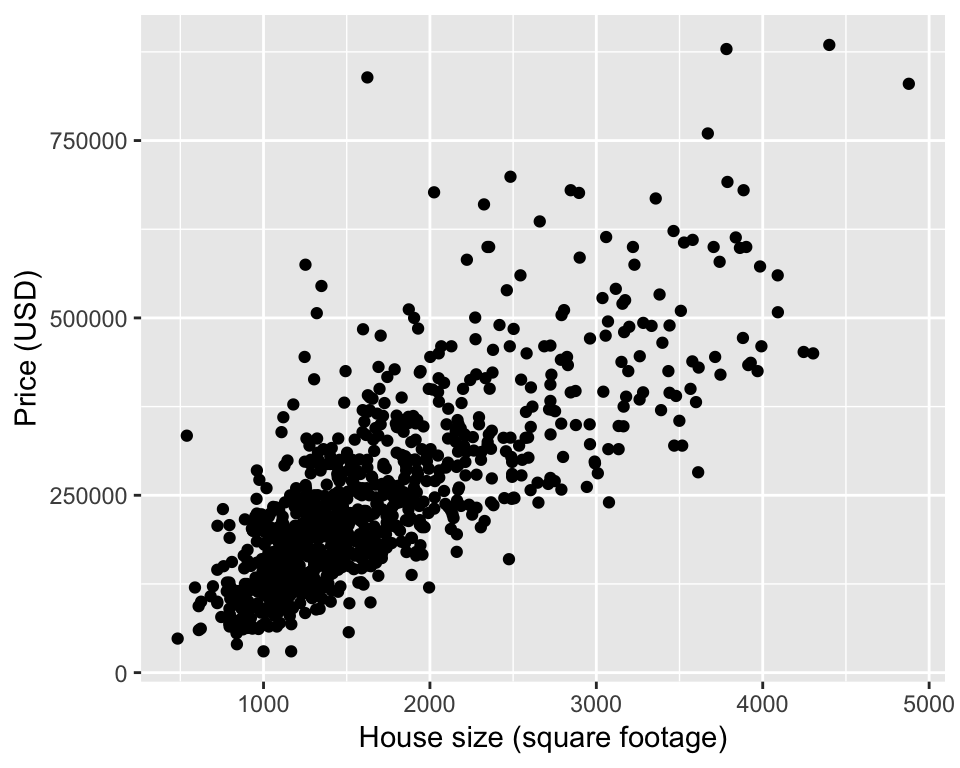
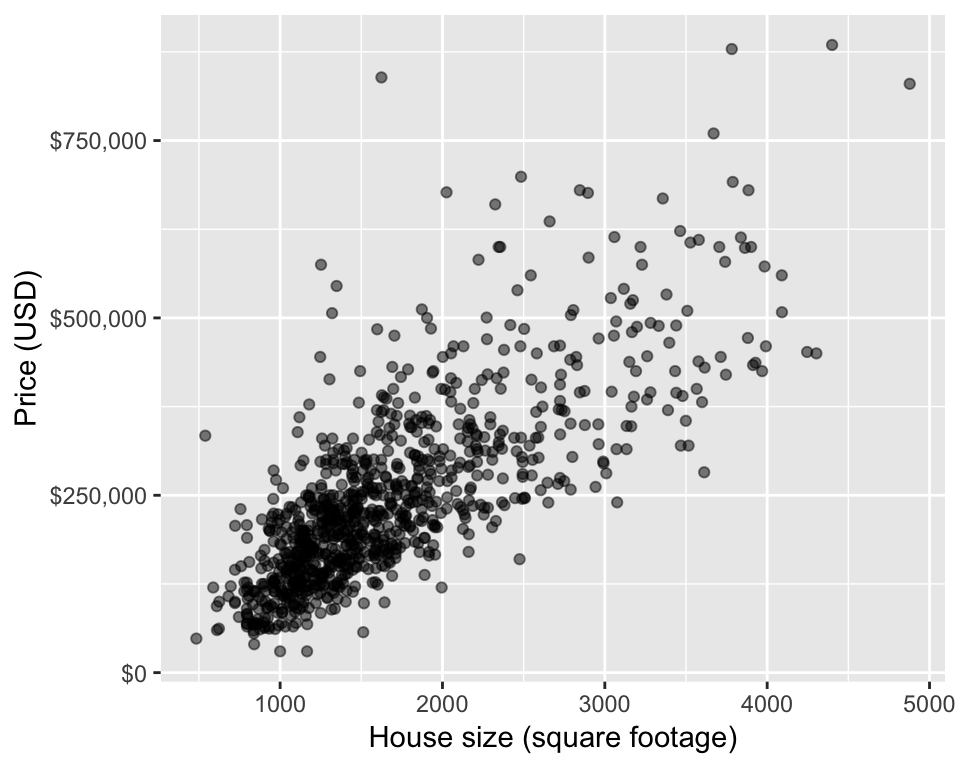
added draft to chapter on k-nn regression

diff --git a/docs/regression1.html b/docs/regression1.html
@@ -225,6 +225,9 @@ code > span.in { color: #60a0b0; font-weight: bold; font-style: italic; } /* Inf
 <li class="chapter" data-level="8.2" data-path="regression1.html"><a href="regression1.html#learning-objectives-2"><i class="fa fa-check"></i><b>8.2</b> Learning objectives</a></li>
 <li class="chapter" data-level="8.3" data-path="regression1.html"><a href="regression1.html#regression"><i class="fa fa-check"></i><b>8.3</b> Regression</a></li>
 <li class="chapter" data-level="8.4" data-path="regression1.html"><a href="regression1.html#sacremento-real-estate-example"><i class="fa fa-check"></i><b>8.4</b> Sacremento real estate example</a></li>
+<li class="chapter" data-level="8.5" data-path="regression1.html"><a href="regression1.html#k-nearest-neighbours-regression"><i class="fa fa-check"></i><b>8.5</b> K-nearest neighbours regression</a></li>
+<li class="chapter" data-level="8.6" data-path="regression1.html"><a href="regression1.html#assessing-a-knn-regression-model"><i class="fa fa-check"></i><b>8.6</b> Assessing a knn regression model</a></li>
+<li class="chapter" data-level="8.7" data-path="regression1.html"><a href="regression1.html#assessing-model-goodness-with-the-test-set"><i class="fa fa-check"></i><b>8.7</b> Assessing model goodness with the test set</a></li>
 </ul></li>
 <li class="divider"></li>
 <li><a href="https://github.com/rstudio/bookdown" target="blank">Published with bookdown</a></li>
@@ -272,8 +275,9 @@ code > span.in { color: #60a0b0; font-weight: bold; font-style: italic; } /* Inf
 <div id="sacremento-real-estate-example" class="section level2">
 <h2><span class="header-section-number">8.4</span> Sacremento real estate example</h2>
 <p>Let’s start by loading the libraries we need and previewing the data set. The data set comes with the <code>caret</code> package, so as soon as we load the <code>caret</code> library and type <code>data(Sacramento)</code> we are able to access it as a data frame named <code>Sacramento</code>.</p>
-<div class="sourceCode"><pre class="sourceCode r"><code class="sourceCode r"><span class="kw">library</span>(tidyverse)
-<span class="kw">library</span>(forcats)
+<div class="sourceCode"><pre class="sourceCode r"><code class="sourceCode r"><span class="kw">library</span>(tidyverse)</code></pre></div>
+<pre><code>## Warning: package &#39;tibble&#39; was built under R version 3.5.2</code></pre>
+<div class="sourceCode"><pre class="sourceCode r"><code class="sourceCode r"><span class="kw">library</span>(scales)
 <span class="kw">library</span>(caret)
 
 <span class="kw">data</span>(Sacramento)
@@ -287,12 +291,145 @@ code > span.in { color: #60a0b0; font-weight: bold; font-style: italic; } /* Inf
 ## 6 SACRAMENTO z95841    3     1 1122       Condo 89921 38.66260 -121.3278</code></pre>
 <p>Next look at the data in a plot where we place the predictor/explanatory variable on the x-axis and the target/response variable on the y-axis (this is what we would like to predict):</p>
 <div class="sourceCode"><pre class="sourceCode r"><code class="sourceCode r">eda &lt;-<span class="st"> </span><span class="kw">ggplot</span>(Sacramento, <span class="kw">aes</span>(<span class="dt">x =</span> sqft, <span class="dt">y =</span> price)) <span class="op">+</span>
-<span class="st">  </span><span class="kw">geom_point</span>() <span class="op">+</span>
+<span class="st">  </span><span class="kw">geom_point</span>(<span class="dt">alpha =</span> <span class="fl">0.5</span>) <span class="op">+</span>
 <span class="st">  </span><span class="kw">xlab</span>(<span class="st">&quot;House size (square footage)&quot;</span>) <span class="op">+</span>
-<span class="st">  </span><span class="kw">ylab</span>(<span class="st">&quot;Price (USD)&quot;</span>)
+<span class="st">  </span><span class="kw">ylab</span>(<span class="st">&quot;Price (USD)&quot;</span>) <span class="op">+</span>
+<span class="st">  </span><span class="kw">scale_y_continuous</span>(<span class="dt">labels=</span><span class="kw">dollar_format</span>()) 
 eda</code></pre></div>
 <p><img src="bookdown-demo_files/figure-html/eda-1.png" width="480" /></p>
 <p>From looking at the visualization above, we see that as house size (square footage) increases, so does house price. Thus, we can reason that house size might be a useful predictor of house price and we can use the size of the house to predict a house price for a home that has not yet sold (and consequently we do not know the house price).</p>
+</div>
+<div id="k-nearest-neighbours-regression" class="section level2">
+<h2><span class="header-section-number">8.5</span> K-nearest neighbours regression</h2>
+<p>Let’s take a small sample of the data above and walk through how K-nearest neighbours (knn) regression works before we dive in to creating our model. To take a small sample, we’ll use the function <code>sample_n</code>.</p>
+<div class="sourceCode"><pre class="sourceCode r"><code class="sourceCode r"><span class="kw">set.seed</span>(<span class="dv">2019</span>)
+small_sacramento &lt;-<span class="st"> </span><span class="kw">sample_n</span>(Sacramento, <span class="dt">size =</span> <span class="dv">30</span>)</code></pre></div>
+<p>Next let’s say we come across a new house we are interested in purchasing, and its 2000 square feet! Its advertised list price is $350,000 should we give them what they are asking? Or is that overpriced and we should offer less? Perhaps we cannot directly answer that, but we can get close by using the data we have to predict the sale price given the sale prices we have already observed.</p>
+<p>Given the data in the plot below, we have no observations of a house that has sold that is 2000 square feet, so how can we predict the price?</p>
+<div class="sourceCode"><pre class="sourceCode r"><code class="sourceCode r">small_plot &lt;-<span class="st"> </span><span class="kw">ggplot</span>(small_sacramento, <span class="kw">aes</span>(<span class="dt">x =</span> sqft, <span class="dt">y =</span> price)) <span class="op">+</span>
+<span class="st">  </span><span class="kw">geom_point</span>() <span class="op">+</span>
+<span class="st">  </span><span class="kw">xlab</span>(<span class="st">&quot;House size (square footage)&quot;</span>) <span class="op">+</span>
+<span class="st">  </span><span class="kw">ylab</span>(<span class="st">&quot;Price (USD)&quot;</span>) <span class="op">+</span>
+<span class="st">  </span><span class="kw">scale_y_continuous</span>(<span class="dt">labels=</span><span class="kw">dollar_format</span>()) <span class="op">+</span>
+<span class="st">  </span><span class="kw">geom_vline</span>(<span class="dt">xintercept =</span> <span class="dv">2000</span>, <span class="dt">linetype =</span> <span class="st">&quot;dotted&quot;</span>) 
+small_plot</code></pre></div>
+<p><img src="bookdown-demo_files/figure-html/small_eda-1.png" width="480" /></p>
+<p>What we can do is use the neighbouring points to suggest/predict what the price should be. For the example above, below we find and label the 5 nearest neighbours to our observation of a house that is 2000 square feet:</p>
+<div class="sourceCode"><pre class="sourceCode r"><code class="sourceCode r">small_sacramento <span class="op">%&gt;%</span><span class="st"> </span>
+<span class="st">  </span><span class="kw">mutate</span>(<span class="dt">diff =</span> <span class="kw">abs</span>(<span class="dv">2000</span> <span class="op">-</span><span class="st"> </span>sqft)) <span class="op">%&gt;%</span><span class="st"> </span>
+<span class="st">  </span><span class="kw">arrange</span>(diff) <span class="op">%&gt;%</span><span class="st"> </span>
+<span class="st">  </span><span class="kw">head</span>(<span class="dv">5</span>)</code></pre></div>
+<pre><code>##         city    zip beds baths sqft        type  price latitude longitude
+## 1 SACRAMENTO z95835    4     2 1910 Residential 300500 38.67745 -121.4948
+## 2 SACRAMENTO z95825    3     2 1720 Residential 290000 38.56786 -121.4107
+## 3   ANTELOPE z95843    3     2 1669 Residential 168750 38.71846 -121.3709
+## 4    LINCOLN z95648    3     2 1650 Residential 276500 38.84412 -121.2748
+## 5 SACRAMENTO z95827    5     3 2367 Residential 315537 38.55599 -121.3404
+##   diff
+## 1   90
+## 2  280
+## 3  331
+## 4  350
+## 5  367</code></pre>
+<div class="sourceCode"><pre class="sourceCode r"><code class="sourceCode r">small_plot <span class="op">+</span>
+<span class="st">  </span><span class="kw">geom_segment</span>(<span class="kw">aes</span>(<span class="dt">x =</span> <span class="dv">2000</span>, <span class="dt">y =</span> <span class="dv">300500</span>, <span class="dt">xend =</span> <span class="dv">1910</span>, <span class="dt">yend =</span> <span class="dv">300500</span>), <span class="dt">col =</span> <span class="st">&quot;orange&quot;</span>) <span class="op">+</span><span class="st"> </span>
+<span class="st">  </span><span class="kw">geom_segment</span>(<span class="kw">aes</span>(<span class="dt">x =</span> <span class="dv">2000</span>, <span class="dt">y =</span> <span class="dv">290000</span>, <span class="dt">xend =</span> <span class="dv">1720</span>, <span class="dt">yend =</span> <span class="dv">290000</span>), <span class="dt">col =</span> <span class="st">&quot;orange&quot;</span>) <span class="op">+</span><span class="st"> </span>
+<span class="st">  </span><span class="kw">geom_segment</span>(<span class="kw">aes</span>(<span class="dt">x =</span> <span class="dv">2000</span>, <span class="dt">y =</span> <span class="dv">168750</span>, <span class="dt">xend =</span> <span class="dv">1669</span>, <span class="dt">yend =</span> <span class="dv">168750</span>), <span class="dt">col =</span> <span class="st">&quot;orange&quot;</span>) <span class="op">+</span>
+<span class="st">  </span><span class="kw">geom_segment</span>(<span class="kw">aes</span>(<span class="dt">x =</span> <span class="dv">2000</span>, <span class="dt">y =</span> <span class="dv">276500</span>, <span class="dt">xend =</span> <span class="dv">1650</span>, <span class="dt">yend =</span> <span class="dv">276500</span>), <span class="dt">col =</span> <span class="st">&quot;orange&quot;</span>) <span class="op">+</span><span class="st"> </span>
+<span class="st">  </span><span class="kw">geom_segment</span>(<span class="kw">aes</span>(<span class="dt">x =</span> <span class="dv">2000</span>, <span class="dt">y =</span> <span class="dv">315537</span>, <span class="dt">xend =</span> <span class="dv">2367</span>, <span class="dt">yend =</span> <span class="dv">315537</span>), <span class="dt">col =</span> <span class="st">&quot;orange&quot;</span>) </code></pre></div>
+<p><img src="bookdown-demo_files/figure-html/knn3-1.png" width="480" /></p>
+<p>Now that we have the 5 nearest neighbours to our new observation that we would like to predict the price for, we can use their values to predict a selling price for the home we are interested in buying that is 2000 square feet. Specifically, we can take the mean (or average) of these 5 values as our predicted value.</p>
+<div class="sourceCode"><pre class="sourceCode r"><code class="sourceCode r">small_sacramento <span class="op">%&gt;%</span><span class="st"> </span>
+<span class="st">  </span><span class="kw">mutate</span>(<span class="dt">diff =</span> <span class="kw">abs</span>(<span class="dv">2000</span> <span class="op">-</span><span class="st"> </span>sqft)) <span class="op">%&gt;%</span><span class="st"> </span>
+<span class="st">  </span><span class="kw">arrange</span>(diff) <span class="op">%&gt;%</span><span class="st"> </span>
+<span class="st">  </span><span class="kw">head</span>(<span class="dv">5</span>) <span class="op">%&gt;%</span><span class="st"> </span>
+<span class="st">  </span><span class="kw">summarise</span>(<span class="dt">predicted =</span> <span class="kw">mean</span>(price))</code></pre></div>
+<pre><code>##   predicted
+## 1  270257.4</code></pre>
+<p>Our predicted price is $270,257.40, which is much less than $350,000, and so perhaps we might want to offer less than the list price that the house is advertised at. Simple right? Not quite. We have all the same unanswered questions here with k-nn regression that we had with k-nn classification. Which <span class="math inline">\(k\)</span> do we choose? And, is our model any good at making predictions? We’ll shortly address how to answer these questions in the context of k-nn regression.</p>
+</div>
+<div id="assessing-a-knn-regression-model" class="section level2">
+<h2><span class="header-section-number">8.6</span> Assessing a knn regression model</h2>
+<p>As usual, we should start by putting some test data away in a lock box that we can come back to after we choose our final model, so let’s take care of that business now. For the remainder of the chapter we’ll work with the full data set.</p>
+<div class="sourceCode"><pre class="sourceCode r"><code class="sourceCode r"><span class="kw">set.seed</span>(<span class="dv">2019</span>) <span class="co"># makes the random selection of rows reproducible</span>
+training_rows &lt;-<span class="st"> </span>Sacramento <span class="op">%&gt;%</span><span class="st"> </span>
+<span class="st">  </span><span class="kw">select</span>(price) <span class="op">%&gt;%</span><span class="st"> </span>
+<span class="st">  </span><span class="kw">unlist</span>() <span class="op">%&gt;%</span><span class="st"> </span><span class="co"># converts Class from a tibble to a vector</span>
+<span class="st">  </span><span class="kw">createDataPartition</span>(<span class="dt">p =</span> <span class="fl">0.6</span>, <span class="dt">list =</span> <span class="ot">FALSE</span>)
+
+X_train &lt;-<span class="st"> </span>Sacramento <span class="op">%&gt;%</span><span class="st"> </span>
+<span class="st">  </span><span class="kw">select</span>(sqft) <span class="op">%&gt;%</span><span class="st"> </span>
+<span class="st">  </span><span class="kw">slice</span>(training_rows) <span class="op">%&gt;%</span><span class="st"> </span>
+<span class="st">  </span><span class="kw">data.frame</span>()
+
+Y_train &lt;-<span class="st"> </span>Sacramento <span class="op">%&gt;%</span><span class="st"> </span>
+<span class="st">  </span><span class="kw">select</span>(price) <span class="op">%&gt;%</span><span class="st"> </span>
+<span class="st">  </span><span class="kw">slice</span>(training_rows) <span class="op">%&gt;%</span><span class="st"> </span>
+<span class="st">  </span><span class="kw">unlist</span>()
+
+X_test &lt;-<span class="st"> </span>Sacramento <span class="op">%&gt;%</span><span class="st"> </span>
+<span class="st">  </span><span class="kw">select</span>(sqft) <span class="op">%&gt;%</span><span class="st"> </span>
+<span class="st">  </span><span class="kw">slice</span>(<span class="op">-</span>training_rows) <span class="op">%&gt;%</span><span class="st"> </span>
+<span class="st">  </span><span class="kw">data.frame</span>()
+
+Y_test &lt;-<span class="st"> </span>Sacramento <span class="op">%&gt;%</span><span class="st"> </span>
+<span class="st">  </span><span class="kw">select</span>(price) <span class="op">%&gt;%</span><span class="st"> </span>
+<span class="st">  </span><span class="kw">slice</span>(<span class="op">-</span>training_rows) <span class="op">%&gt;%</span><span class="st"> </span>
+<span class="st">  </span><span class="kw">unlist</span>()</code></pre></div>
+<p>Next, we’ll use cross-validation to choose <span class="math inline">\(k\)</span>. Instead of accuracy, we will use <span class="math inline">\(R^2\)</span> as our cross-validation score for how good of a model we have for prediction.</p>
+<div class="sourceCode"><pre class="sourceCode r"><code class="sourceCode r">train_control &lt;-<span class="st"> </span><span class="kw">trainControl</span>(<span class="dt">method =</span> <span class="st">&quot;cv&quot;</span>, <span class="dt">number =</span> <span class="dv">10</span>)
+k_lots =<span class="st"> </span><span class="kw">data.frame</span>(<span class="dt">k =</span> <span class="kw">seq</span>(<span class="dt">from =</span> <span class="dv">1</span>, <span class="dt">to =</span> <span class="dv">300</span>, <span class="dt">by =</span> <span class="dv">25</span>)) <span class="co"># makes a column of k&#39;s, from 1 to 25</span>
+
+<span class="kw">set.seed</span>(<span class="dv">1234</span>)
+knn_reg_cv_<span class="dv">10</span> &lt;-<span class="st"> </span><span class="kw">train</span>(<span class="dt">x =</span> X_train, <span class="dt">y =</span> Y_train, <span class="dt">method =</span> <span class="st">&quot;knn&quot;</span>, <span class="dt">tuneGrid =</span> k_lots, <span class="dt">trControl =</span> train_control, <span class="dt">metric =</span> <span class="st">&quot;Rsquared&quot;</span>)
+knn_reg_cv_<span class="dv">10</span></code></pre></div>
+<pre><code>## k-Nearest Neighbors 
+## 
+## 561 samples
+##   1 predictor
+## 
+## No pre-processing
+## Resampling: Cross-Validated (10 fold) 
+## Summary of sample sizes: 505, 505, 505, 505, 505, 505, ... 
+## Resampling results across tuning parameters:
+## 
+##   k    RMSE       Rsquared   MAE     
+##     1  110214.34  0.3643214  82765.68
+##    26   83428.65  0.5694362  62301.06
+##    51   83129.92  0.5739339  61646.80
+##    76   83448.83  0.5784049  61761.68
+##   101   84664.94  0.5734551  62281.74
+##   126   85947.91  0.5731613  62876.29
+##   151   87508.41  0.5698278  63683.03
+##   176   89254.37  0.5671782  64669.90
+##   201   91386.34  0.5633833  65983.60
+##   226   93298.46  0.5605334  67186.52
+##   251   95280.62  0.5584013  68468.53
+##   276   97592.76  0.5550169  70065.03
+## 
+## Rsquared was used to select the optimal model using the largest value.
+## The final value used for the model was k = 76.</code></pre>
+<div class="sourceCode"><pre class="sourceCode r"><code class="sourceCode r"><span class="kw">ggplot</span>(knn_reg_cv_<span class="dv">10</span><span class="op">$</span>results, <span class="kw">aes</span>(<span class="dt">x =</span> k, <span class="dt">y =</span> Rsquared)) <span class="op">+</span>
+<span class="st">  </span><span class="kw">geom_point</span>() <span class="op">+</span>
+<span class="st">  </span><span class="kw">geom_line</span>()</code></pre></div>
+<p><img src="bookdown-demo_files/figure-html/choose_k-1.png" width="480" /></p>
+<p>Here we see that the best <span class="math inline">\(k\)</span> for this model is 76.</p>
+</div>
+<div id="assessing-model-goodness-with-the-test-set" class="section level2">
+<h2><span class="header-section-number">8.7</span> Assessing model goodness with the test set</h2>
+<p>Next we re-train our k-nn model on the entire training data set (do not perform cross validation) and then predict on the test data set to assess how well our model does.</p>
+<p>In the case of k-nn regression we use the function <code>defaultSummary</code> instead of <code>confusionMatrix</code> (which we used with knn classification). This is because our predictions are not class labels, but values, and as such the type of model goodness score is calculated differently. <code>defaultSummary</code> expects a data frame where one column is the observed target/response variable values from the test data, and a second column of the predicted values for the test data.</p>
+<div class="sourceCode"><pre class="sourceCode r"><code class="sourceCode r">k =<span class="st"> </span><span class="kw">data.frame</span>(<span class="dt">k =</span> <span class="dv">76</span>)
+
+<span class="kw">set.seed</span>(<span class="dv">1234</span>)
+knn_reg_final &lt;-<span class="st"> </span><span class="kw">train</span>(<span class="dt">x =</span> X_train, <span class="dt">y =</span> Y_train, <span class="dt">method =</span> <span class="st">&quot;knn&quot;</span>, <span class="dt">tuneGrid =</span> k)
+
+test_pred &lt;-<span class="st"> </span><span class="kw">predict</span>(knn_reg_final, X_test)
+modelvalues &lt;-<span class="st"> </span><span class="kw">data.frame</span>(<span class="dt">obs =</span> Y_test, <span class="dt">pred =</span> test_pred)
+test_results &lt;-<span class="st"> </span><span class="kw">defaultSummary</span>(modelvalues)
+test_results</code></pre></div>
+<pre><code>##       RMSE   Rsquared        MAE 
+## 93323.9016     0.5705 63954.8969</code></pre>
 
 </div>
 </div>
@@ -343,6 +480,19 @@ gitbook.start({
 });
 </script>
 
+<!-- dynamically load mathjax for compatibility with self-contained -->
+<script>
+  (function () {
+    var script = document.createElement("script");
+    script.type = "text/javascript";
+    var src = "";
+    if (src === "" || src === "true") src = "https://cdn.bootcss.com/mathjax/2.7.1/MathJax.js?config=TeX-MML-AM_CHTML";
+    if (location.protocol !== "file:" && /^https?:/.test(src))
+      src = src.replace(/^https?:/, '');
+    script.src = src;
+    document.getElementsByTagName("head")[0].appendChild(script);
+  })();
+</script>
 </body>
 
 </html>

diff --git a/docs/index.html b/docs/index.html
@@ -188,6 +188,9 @@
 <li class="chapter" data-level="8.2" data-path="regression1.html"><a href="regression1.html#learning-objectives-2"><i class="fa fa-check"></i><b>8.2</b> Learning objectives</a></li>
 <li class="chapter" data-level="8.3" data-path="regression1.html"><a href="regression1.html#regression"><i class="fa fa-check"></i><b>8.3</b> Regression</a></li>
 <li class="chapter" data-level="8.4" data-path="regression1.html"><a href="regression1.html#sacremento-real-estate-example"><i class="fa fa-check"></i><b>8.4</b> Sacremento real estate example</a></li>
+<li class="chapter" data-level="8.5" data-path="regression1.html"><a href="regression1.html#k-nearest-neighbours-regression"><i class="fa fa-check"></i><b>8.5</b> K-nearest neighbours regression</a></li>
+<li class="chapter" data-level="8.6" data-path="regression1.html"><a href="regression1.html#assessing-a-knn-regression-model"><i class="fa fa-check"></i><b>8.6</b> Assessing a knn regression model</a></li>
+<li class="chapter" data-level="8.7" data-path="regression1.html"><a href="regression1.html#assessing-model-goodness-with-the-test-set"><i class="fa fa-check"></i><b>8.7</b> Assessing model goodness with the test set</a></li>
 </ul></li>
 <li class="divider"></li>
 <li><a href="https://github.com/rstudio/bookdown" target="blank">Published with bookdown</a></li>
